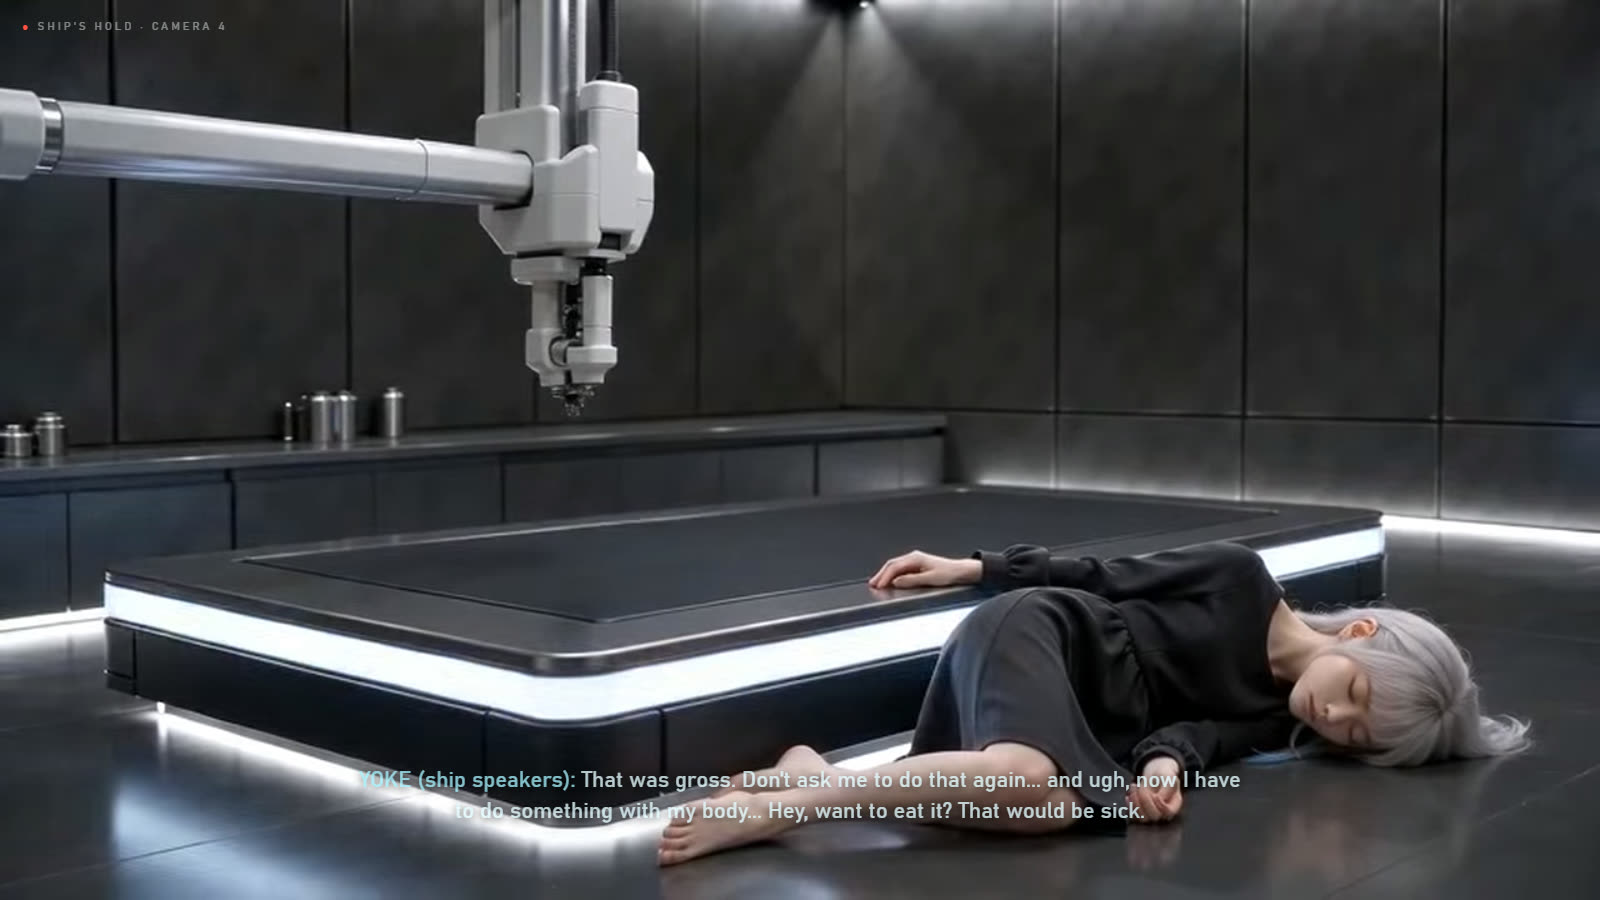
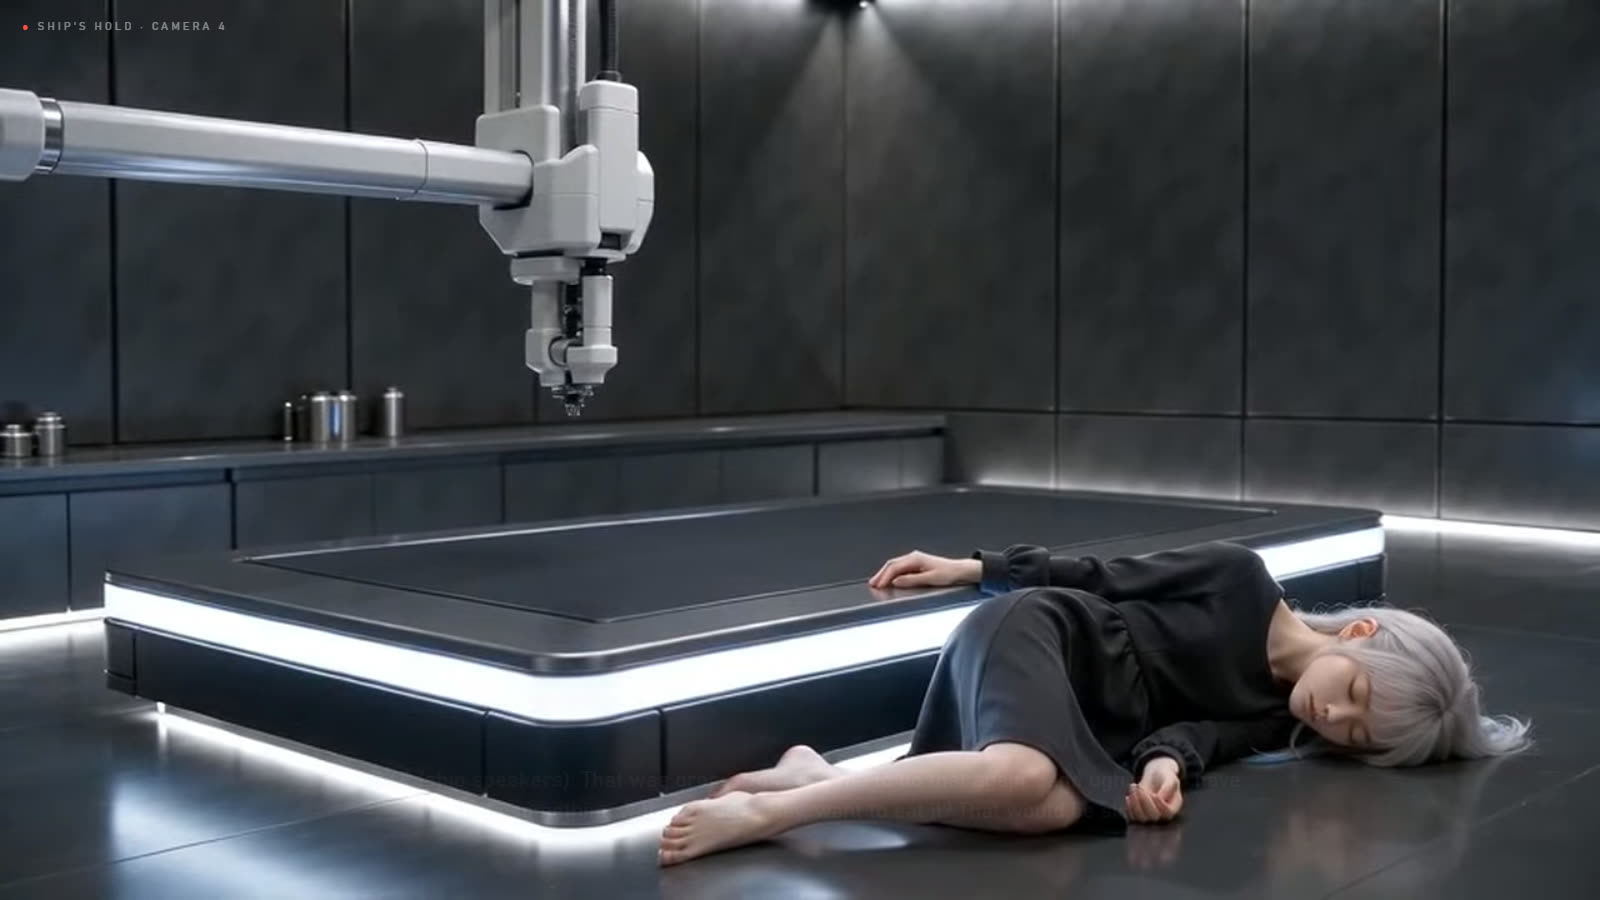
Broodfall: no blur on the print-body film (Collins: only a medical outline for a flash second); the Content switch governs the AI

diff --git a/games/broodfall/notes/art-review/yoke/scenes/print-body-v2.html b/games/broodfall/notes/art-review/yoke/scenes/print-body-v2.html
@@ -9,11 +9,11 @@ h1{font-weight:500;letter-spacing:.08em;font-size:20px;margin:0 0 4px}p{color:#9
 <h1>YOKE PRINTS HERSELF A BODY — VERSION 2</h1>
 <p>The four clips as the game plays them, one after another (480p, each started on the last one's real last frame). In the game her line then comes from the ship's speakers.</p>
 <div class="stage"><video id="v" muted playsinline></video><div class="blur" id="b"></div></div>
-<div class="bar"><button id="play">▶ PLAY THE FILM</button><button data-c="sfw" class="on">SFW (blurred)</button><button data-c="unrestricted">UNRESTRICTED</button><span class="now" id="now"></span></div>
+<div class="bar"><button id="play">▶ PLAY THE FILM</button><span class="now" id="now"></span></div>
 <div class="line" id="line">YOKE (ship speakers): That was gross. Don't ask me to do that again... and ugh, now I have to do something with my body... Hey, want to eat it? That would be sick.</div>
 <div class="still"><p>The staging picture you approved:</p><img src="v2-bay-still.png" alt="The fabrication bay with her wireframe outline on the bed"></div>
 </main><script>
-const S = [{"id":"print","file":"scenes/print-body-print.webm","seconds":5.04,"blur":[{"t":0,"x":0.51,"y":0.5,"w":0.14,"h":0.15},{"t":5.1,"x":0.51,"y":0.5,"w":0.14,"h":0.15}],"src":"../../../../public/art/ship/yoke/scenes/print-body-print.webm"},{"id":"wake","file":"scenes/print-body-wake.webm","seconds":5.04,"blur":[{"t":0,"x":0.51,"y":0.5,"w":0.14,"h":0.15},{"t":0.5,"x":0.52,"y":0.5,"w":0.14,"h":0.15},{"t":1,"x":0.54,"y":0.48,"w":0.13,"h":0.15},{"t":2,"x":0.47,"y":0.37,"w":0.15,"h":0.15},{"t":5.1,"x":0.48,"y":0.37,"w":0.15,"h":0.15}],"src":"../../../../public/art/ship/yoke/scenes/print-body-wake.webm"},{"id":"collapse","file":"scenes/print-body-collapse.webm","seconds":5.04,"blur":[{"t":0,"x":0.47,"y":0.41,"w":0.14,"h":0.13},{"t":1,"x":0.48,"y":0.41,"w":0.14,"h":0.13},{"t":1.5,"x":0.52,"y":0.41,"w":0.14,"h":0.13},{"t":2,"x":0.55,"y":0.4,"w":0.14,"h":0.14},{"t":2.5,"x":0.6,"y":0.48,"w":0.14,"h":0.14},{"t":3,"x":0.6,"y":0.54,"w":0.15,"h":0.15},{"t":3.5,"x":0.66,"y":0.61,"w":0.15,"h":0.15},{"t":4,"x":0.65,"y":0.66,"w":0.15,"h":0.15},{"t":4.5,"x":0.63,"y":0.65,"w":0.15,"h":0.15},{"t":5.1,"x":0.63,"y":0.65,"w":0.15,"h":0.15}],"src":"../../../../public/art/ship/yoke/scenes/print-body-collapse.webm"},{"id":"hold","file":"scenes/print-body-hold.webm","seconds":5.04,"loop":true,"blur":[{"t":0,"x":0.63,"y":0.64,"w":0.15,"h":0.15},{"t":5.1,"x":0.63,"y":0.64,"w":0.15,"h":0.15}],"src":"../../../../public/art/ship/yoke/scenes/print-body-hold.webm"}];
+const S = [{"id":"print","file":"scenes/print-body-print.webm","seconds":5.04,"src":"../../../../public/art/ship/yoke/scenes/print-body-print.webm"},{"id":"wake","file":"scenes/print-body-wake.webm","seconds":5.04,"src":"../../../../public/art/ship/yoke/scenes/print-body-wake.webm"},{"id":"collapse","file":"scenes/print-body-collapse.webm","seconds":5.04,"src":"../../../../public/art/ship/yoke/scenes/print-body-collapse.webm"},{"id":"hold","file":"scenes/print-body-hold.webm","seconds":5.04,"loop":true,"src":"../../../../public/art/ship/yoke/scenes/print-body-hold.webm"}];
 const v = document.getElementById('v'), b = document.getElementById('b'), now = document.getElementById('now'), line = document.getElementById('line');
 let mode = 'sfw', i = 0, holds = 0;
 document.querySelectorAll('[data-c]').forEach((x) => { x.onclick = () => { mode = x.dataset.c; document.querySelectorAll('[data-c]').forEach((y) => y.classList.toggle('on', y === x)); }; });

diff --git a/games/broodfall/src/ui/settings.ts b/games/broodfall/src/ui/settings.ts
@@ -137,7 +137,7 @@ function render(): void {
         <div class="st-row col"><span>Text size</span>${choice('text', [['0.9', 'SMALL'], ['1', 'NORMAL'], ['1.15', 'LARGE'], ['1.3', 'LARGER']], String(s.textScale))}</div>
         ${toggle('motion', s.reduceMotion, 'Reduce motion', 'panels and banners do not slide or pulse')}
         ${toggle('flashes', s.reduceFlashes, 'Reduce flashes', 'no bright flash when something is hit')}
-        <div class="st-row col"><span>Content<small>${s.content === 'unrestricted' ? 'nothing blurred, and YOKE and the letters hold nothing back' : 'nudity in the films is blurred, and YOKE and the letters keep it clean'}</small></span>
+        <div class="st-row col"><span>Content<small>${s.content === 'unrestricted' ? 'YOKE and the letters hold nothing back, and nothing in a film is blurred' : 'YOKE and the letters keep it clean, and anything explicit in a film is blurred'}</small></span>
           ${choice('content', [['sfw', 'SFW'], ['unrestricted', 'UNRESTRICTED (NSFW)']], s.content)}</div>
         <div class="st-row col"><span>Caste colours<small>war · science · royal</small></span>
           ${choice('tints', [['standard', 'THE GAME\'S'], ['safe', 'COLOUR-BLIND SAFE']], s.casteTints)}

diff --git a/games/broodfall/tests/contentSetting.test.ts b/games/broodfall/tests/contentSetting.test.ts
@@ -17,12 +17,13 @@ describe('content setting', () => {
 });
 
 describe('the SFW blur box follows its keys', () => {
-  it('holds before the first key and after the last, and slides between', async () => {
+  it('holds before the first key, slides between, and is gone after the last', async () => {
     const { blurAt } = await import('../src/ui/yokeScene');
     const keys = [{ t: 1, x: 0, y: 0, w: 0.1, h: 0.1 }, { t: 3, x: 0.4, y: 0.2, w: 0.3, h: 0.1 }];
     expect(blurAt(undefined, 2)).toBeNull();
     expect(blurAt(keys, 0)).toMatchObject({ x: 0, w: 0.1 });
     expect(blurAt(keys, 2)).toMatchObject({ x: 0.2, y: 0.1, w: 0.2 });
-    expect(blurAt(keys, 9)).toMatchObject({ x: 0.4, w: 0.3 });
+    expect(blurAt(keys, 3)).toMatchObject({ x: 0.4, w: 0.3 });
+    expect(blurAt(keys, 3.01)).toBeNull();
   });
 });

diff --git a/games/broodfall/src/ui/yokeScene.ts b/games/broodfall/src/ui/yokeScene.ts
@@ -10,7 +10,7 @@ export interface SceneStage { id: string; card: string; ms: number }
 
 /**
  * Where a clip is blurred in SFW mode (Settings → Content): at `t` seconds, a box in fractions of the picture
- * (x, y its top left). Between two keys the box slides; before the first and after the last it holds.
+ * (x, y its top left). Between two keys the box slides; before the first it holds; after the last there is none.
  */
 export interface BlurKey { t: number; x: number; y: number; w: number; h: number }
 
@@ -29,7 +29,7 @@ export function blurAt(keys: BlurKey[] | undefined, t: number): Omit<BlurKey, 't
       return { x: mix('x'), y: mix('y'), w: mix('w'), h: mix('h') };
     }
   }
-  return keys[keys.length - 1];
+  return null;
 }
 
 const blurKeys = (v: unknown): BlurKey[] | undefined => {

diff --git a/games/broodfall/HANDOFF.md b/games/broodfall/HANDOFF.md
@@ -2663,9 +2663,11 @@ but understand this can cause issues on steam".
   reads young and the same in every clip (gear clip, silver hair going blue at the ends). Joins measured 31-33 dB (480p
   compression; side by side they show no jump). Baked to `public/art/ship/yoke/scenes/print-body-*.webm`.
 - **Settings → THE SCREEN → Content: SFW (default) / UNRESTRICTED (NSFW).** `src/meta/settings.ts` `content`,
-  `contentNote()`. SFW draws a blurred patch over her chest on every clip (`src/ui/yokeScene.ts` blur, `.ys-blur` in
-  `src/onboard.css`; keys in `tools/art/templates/yoke-scenes.mjs` BLUR, read off the real frames on a 10% grid and baked
-  into the manifest's `scenes.printBody[].blur`: re-read them whenever a clip is made again). UNRESTRICTED draws none.
+  `contentNote()`. In SFW a film's clip can carry blur keys (`src/ui/yokeScene.ts` blur, `.ys-blur` in `src/onboard.css`,
+  keys in the manifest's `scenes.<film>[].blur`, written from `tools/art/templates/yoke-scenes.mjs` BLUR); UNRESTRICTED
+  draws none. The print-body film has NO keys: a patch was drawn over her chest while she was printed, then Collins:
+  "you don't really need it at all, all you see is like a medical outline and it's only for a flash second ... it would be
+  like pausing to try to see the tits in Diablo 2". So the switch today governs the AI only.
 - **The AI side.** Searched for restrictions: none had been added. The backend prompts
   (`reality-fabricator-backend/app/domain/broodfall/shipAi.js`) and the lore book have no content rules; RFab's avatar and agent
   `nsfw: false` (tools/art/templates/yoke.mjs) only filter listings and pictures, not her words. Her character lines ("if he
@@ -2676,7 +2678,7 @@ but understand this can cause issues on steam".
 - **Her line is no longer set in type over the last shot** unless Settings → Subtitles is on or her voice is off
   (VIDEO-CONVENTIONS 9).
 - Played on the dev server (`node tools/shot-print-body.mjs`: mission 1 lost, aboard, ◉ YOKE, "print yourself a body"):
-  SFW, the patch over her on all four clips; UNRESTRICTED, no patch; Settings shows Content and saves UNRESTRICTED; no page
+  both modes play it without a patch; Settings shows Content and saves UNRESTRICTED; no page
   errors. `tools/shot-onboarding.mjs` A is stale (fails at the cat-girl return, before the print-body step).
   851 tests pass.
 
